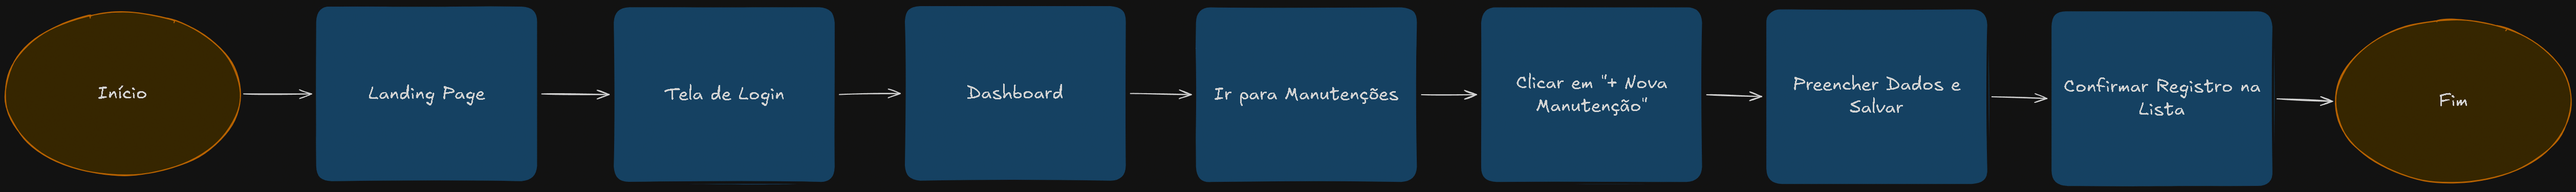
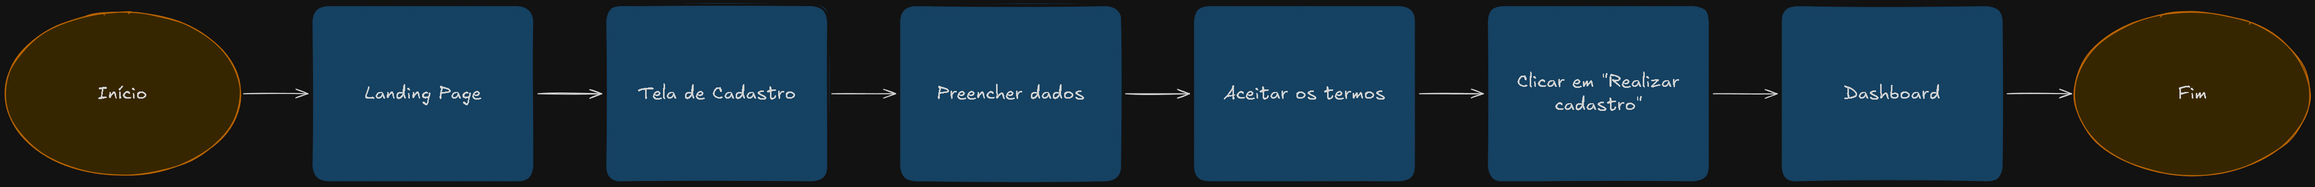
fix: streamline maintenance and vehicle registration flow descriptions

diff --git a/docs/SITEMAP_FLUXOS.md b/docs/SITEMAP_FLUXOS.md
@@ -43,10 +43,9 @@ Fluxo para registrar uma nova manutenção de um veículo.
 | 1 | Acessar o Dashboard |
 | 2 | Ir para Manutenções |
 | 3 | Clicar em **+ Nova Manutenção** |
-| 4 | Preencher os dados |
-| 5 | Salvar o registro |
-| 6 | Verificar o registro na lista |
-| 7 | Finalizar o fluxo |
+| 4 | Preencher os dados e salvar |
+| 5 | Verificar o registro na lista |
+| 6 | Finalizar o fluxo |
 
 ![Fluxo 01 — Registro de manutenção](assets/fluxo-01-registro-manutencao.png)
 
@@ -83,10 +82,9 @@ Fluxo para adicionar um novo veículo à conta do usuário.
 | 1 | Acessar o Dashboard |
 | 2 | Ir para Meus Veículos |
 | 3 | Clicar em **+ Adicionar Veículo** |
-| 4 | Preencher os dados |
-| 5 | Salvar |
-| 6 | Verificar o veículo na lista |
-| 7 | Finalizar o fluxo |
+| 4 | Preencher os dados e salvar |
+| 5 | Verificar o veículo na lista |
+| 6 | Finalizar o fluxo |
 
 ![Fluxo 03 — Cadastro de veículo](assets/fluxo-03-cadastro-veiculo.png)
 
